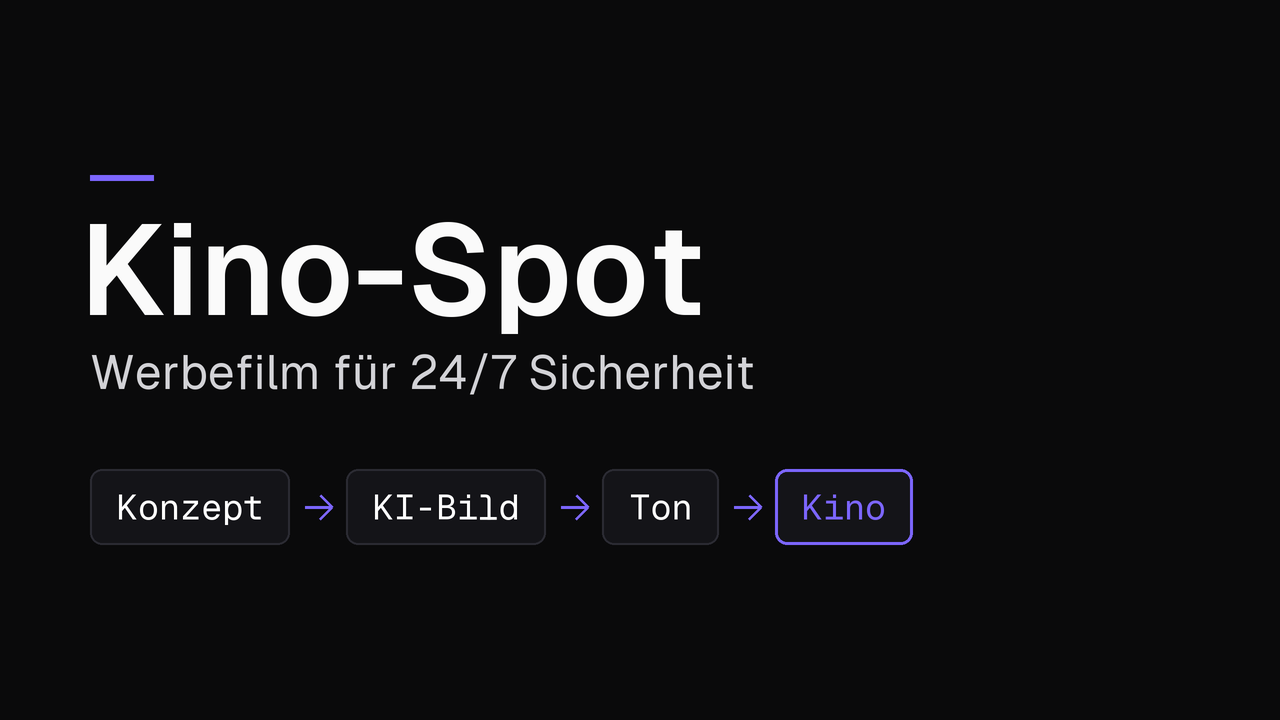
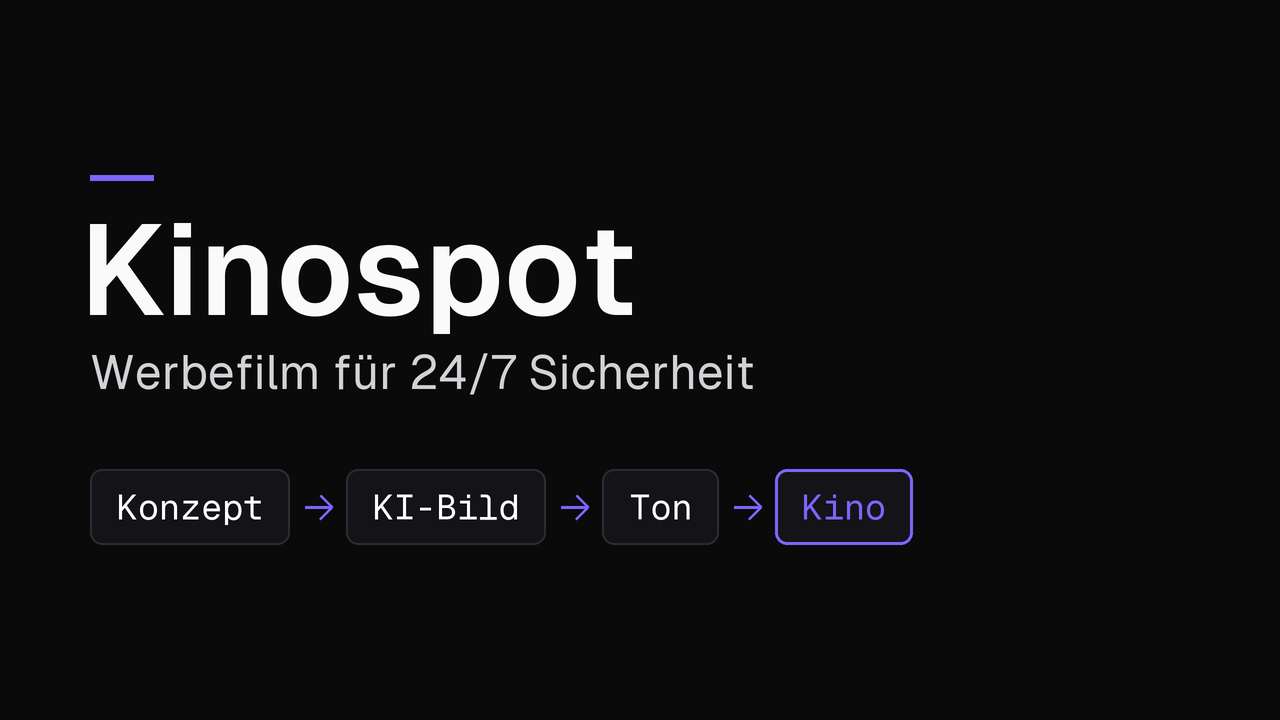
Wording Startseite, Arbeitsproben und /vvl, Navigation ohne VVL-Tool, Kinospot-Vorschaubild

Changed region(s): [[0.2812, 0.3056, 0.5625, 0.4583]]

diff --git a/arbeitsproben.html b/arbeitsproben.html
@@ -12,10 +12,10 @@
   <meta name="theme-color" content="#0A0A0B">
 
   <title>Arbeitsproben | Steffen Petschaelis</title>
-  <meta name="description" content="Vier Projekte mit Status und Beleg: VVL-Automatik im Echtbetrieb, Tresen als Testsystem, Recherche-Team mit KI-Agenten, Kinospot für 24/7 Sicherheit.">
+  <meta name="description" content="Vier Projekte von Steffen Petschaelis: VVL-Automatik im Echtbetrieb, das Kassensystem Tresen in Entwicklung, ein Recherche-Team aus KI-Agenten und ein Kinospot.">
 
   <meta property="og:title" content="Arbeitsproben | Steffen Petschaelis">
-  <meta property="og:description" content="Vier Projekte mit Status und Beleg: VVL-Automatik im Echtbetrieb, Tresen als Testsystem, Recherche-Team mit KI-Agenten, Kinospot für 24/7 Sicherheit.">
+  <meta property="og:description" content="Vier Projekte von Steffen Petschaelis: VVL-Automatik im Echtbetrieb, das Kassensystem Tresen in Entwicklung, ein Recherche-Team aus KI-Agenten und ein Kinospot.">
   <meta property="og:type" content="website">
   <meta property="og:url" content="https://petsch-digital.com/arbeitsproben">
   <meta property="og:image" content="https://petsch-digital.com/og-image.png">
@@ -24,7 +24,7 @@
 
   <meta name="twitter:card" content="summary_large_image">
   <meta name="twitter:title" content="Arbeitsproben | Steffen Petschaelis">
-  <meta name="twitter:description" content="Vier Projekte mit Status und Beleg: VVL-Automatik im Echtbetrieb, Tresen als Testsystem, Recherche-Team mit KI-Agenten, Kinospot für 24/7 Sicherheit.">
+  <meta name="twitter:description" content="Vier Projekte von Steffen Petschaelis: VVL-Automatik im Echtbetrieb, das Kassensystem Tresen in Entwicklung, ein Recherche-Team aus KI-Agenten und ein Kinospot.">
   <meta name="twitter:image" content="https://petsch-digital.com/og-image.png">
 
   <link rel="canonical" href="https://petsch-digital.com/arbeitsproben">
@@ -129,7 +129,6 @@
         <a href="/#profil">Profil</a>
         <a href="/#werdegang">Werdegang</a>
         <a href="/arbeitsproben" aria-current="page">Arbeitsproben</a>
-        <a href="/vvl">VVL-Tool</a>
         <a href="/#kontakt">Kontakt</a>
       </nav>
     </div>
@@ -141,8 +140,8 @@
       <div class="container-wide">
         <div class="hero__inner">
           <span class="eyebrow">Arbeitsproben</span>
-          <h1>Was ich gebaut habe</h1>
-          <p class="lead">Vier Projekte, jeweils mit Status und Beleg. Was im Einsatz läuft, steht als Echtbetrieb da, was ein Testsystem ist, als Testsystem.</p>
+          <h1>Vier Projekte im Detail</h1>
+          <p class="lead">Jedes Projekt mit seinem aktuellen Stand, der eingesetzten Technik und einem Video oder einer Live-Demo.</p>
           <p class="ap-stand">Stand der Angaben: 11. Oktober 2026</p>
         </div>
       </div>
@@ -157,16 +156,16 @@
             <div>
               <span class="eyebrow">Im Echtbetrieb</span>
               <h2>VVL-Automatik für Mobilfunk-Fachhändler</h2>
-              <p>Erkennt, bei welchen Kunden eines Fachhändlers die Vertragsverlängerung ansteht, und schlägt die Erinnerungs-SMS vor. Jede SMS gibt der Händler einzeln frei, es gibt keinen Massenversand.</p>
+              <p>Im Ladenalltag bleiben fällige Vertragsverlängerungen oft liegen. Die Software liest die Provisionsabrechnung aus, erkennt, bei welchen Kunden die Verlängerung ansteht, und schlägt rechtzeitig eine Erinnerungs-SMS vor. Der Händler gibt jede SMS einzeln frei.</p>
               <ul class="ap-facts">
-                <li><strong>Status:</strong> Läuft seit Juli 2026 bei zwei Fachhändlern, je Händler eine eigene Instanz.</li>
-                <li><strong>Stack:</strong> Python, Flask, SQLite; eigener Server je Händler (Hetzner).</li>
-                <li><strong>Betrieb:</strong> Überwachung mit Alarm.</li>
-                <li><strong>Beleg:</strong> Die Demo läuft mit Beispieldaten und verschickt keine SMS. Zugang: demo2026.</li>
+                <li><strong>Stand:</strong> Seit Juli 2026 bei zwei Fachhändlern im Einsatz.</li>
+                <li><strong>Technik:</strong> Python, Flask, SQLite; je Händler ein eigener Server (Hetzner).</li>
+                <li><strong>Betrieb:</strong> Zentrale Überwachung aller Installationen mit Alarm bei Ausfall.</li>
+                <li><strong>Demo:</strong> Öffentlich, mit Beispieldaten und ohne SMS-Versand. Kennwort: demo2026.</li>
               </ul>
               <div class="cta-row">
                 <a class="btn" href="https://demo.petsch-digital.com/login" target="_blank" rel="noopener">Demo öffnen &rarr;</a>
-                <a class="btn btn--secondary" href="/vvl">Mehr zur Lösung &rarr;</a>
+                <a class="btn btn--secondary" href="/vvl">Zur Produktseite &rarr;</a>
               </div>
             </div>
             <a class="ap-media" href="https://demo.petsch-digital.com/login" target="_blank" rel="noopener noreferrer">
@@ -178,14 +177,14 @@
           <!-- Tresen -->
           <article class="card ap-card" id="tresen">
             <div>
-              <span class="eyebrow">Testsystem, in Entwicklung</span>
+              <span class="eyebrow">In Entwicklung</span>
               <h2>Tresen: Software für Handyläden</h2>
-              <p>Kassen- und Warenwirtschaftssystem für den Mobilfunk-Fachhandel, vom Lieferschein über Bestand und Kasse bis zum Kunden und seinem Vertrag.</p>
+              <p>Kassen- und Warenwirtschaft für den Mobilfunk-Fachhandel. Tresen bildet den Weg eines Geräts ab, vom Lieferschein über Bestand und Kasse bis zum Kunden und seinem Vertrag.</p>
               <ul class="ap-facts">
-                <li><strong>Status:</strong> Läuft als Testsystem mit Testdaten, noch kein Release. Die fiskalische Signatur ist im Video simuliert.</li>
-                <li><strong>Stack:</strong> Django, PostgreSQL mit Mandantentrennung auf Datenbankebene (Row Level Security), HTMX.</li>
+                <li><strong>Stand:</strong> Testsystem mit Testdaten, noch ohne Release und ohne Kunden. Die fiskalische Signatur ist im Video simuliert.</li>
+                <li><strong>Technik:</strong> Django, PostgreSQL mit Mandantentrennung auf Datenbankebene (Row Level Security), HTMX.</li>
                 <li><strong>Arbeitsweise:</strong> KI-Agenten schreiben den Code, die Systementscheidungen treffe ich, automatische Tests sichern das Ergebnis ab.</li>
-                <li><strong>Beleg:</strong> Video eines Ladentags im Testsystem.</li>
+                <li><strong>Video:</strong> Ein Ladentag im Testsystem, ein Gerät vom Lieferschein bis zum Kunden.</li>
               </ul>
             </div>
             <a class="ap-media" href="https://youtu.be/O59-yfbZAoQ" target="_blank" rel="noopener noreferrer">
@@ -197,13 +196,13 @@
           <!-- Recherche-Team -->
           <article class="card ap-card" id="recherche-team">
             <div>
-              <span class="eyebrow">Eigenprojekt</span>
+              <span class="eyebrow">Prototyp</span>
               <h2>Recherche-Team: KI-Agenten in n8n mit eingebautem Prüfer</h2>
-              <p>Ein Planer zerlegt die Frage, Worker recherchieren, eine Synthese fasst zusammen und ein Kritiker prüft das Ergebnis. Es gibt höchstens zwei Runden.</p>
+              <p>Ein Planer zerlegt die Frage, Worker recherchieren, eine Synthese fasst zusammen, und ein Kritiker prüft das Ergebnis auf Lücken. Mit seinen Befunden läuft höchstens eine zweite Runde.</p>
               <ul class="ap-facts">
-                <li><strong>Gezeigter Lauf:</strong> Frage zum Stand der KI im deutschen Mittelstand 2026, gut fünf Minuten, 0,43&nbsp;$ Kosten.</li>
-                <li><strong>Stack:</strong> n8n, Claude (Haiku und Sonnet) über die Anthropic API, Brave Search und Jina Reader.</li>
-                <li><strong>Kritiker:</strong> Runde 1 meldete 7 Befunde, davon 4 schwer. Runde 2 meldete 4, davon 2 schwer.</li>
+                <li><strong>Stand:</strong> Lokal lauffähig, nicht im Kundeneinsatz.</li>
+                <li><strong>Technik:</strong> n8n, Claude (Haiku und Sonnet) über die Anthropic API, Brave Search, Jina Reader.</li>
+                <li><strong>Gezeigter Lauf:</strong> Frage zum Stand der KI im deutschen Mittelstand 2026, gut fünf Minuten, 0,43 US-Dollar API-Kosten. Der Kritiker meldete in Runde 1 sieben Befunde, davon vier schwer, in Runde 2 vier, davon zwei schwer.</li>
                 <li><strong>Grenze:</strong> Der Kritiker prüft, ob Belege vorhanden sind, nicht, ob sie stimmen. Den letzten Blick hat ein Mensch.</li>
               </ul>
             </div>
@@ -216,13 +215,13 @@
           <!-- Kinospot -->
           <article class="card ap-card" id="kinospot">
             <div>
-              <span class="eyebrow">Videoproduktion</span>
+              <span class="eyebrow">Kundenauftrag</span>
               <h2>Kinospot für 24/7 Sicherheit</h2>
-              <p>Werbespot, 25 Sekunden, 4K, Cinemascope 2,39:1, 5.1 Surround. Konzept „Der unsichtbare Schutzschild“: vom Familienabend in die Sicherheitsleitstelle.</p>
+              <p>Kinowerbung für einen Sicherheitsdienstleister aus Bielefeld. In 25 Sekunden führt der Spot vom Familienabend in die Sicherheitsleitstelle, Konzept „Der unsichtbare Schutzschild“.</p>
               <ul class="ap-facts">
-                <li><strong>Entstehung:</strong> Bilder KI-generiert (Veo 3.1, Flow, Nano Banana Pro), Musik, Sprecher und Soundeffekte mit ElevenLabs, Postproduktion und DCP-Export in DaVinci Resolve Studio 20.</li>
-                <li><strong>Kunde:</strong> 24/7 Sicherheit, Bielefeld.</li>
-                <li><strong>Status:</strong> Abgeschlossen 2026, veröffentlicht mit Freigabe des Kunden.</li>
+                <li><strong>Stand:</strong> 2026 abgeschlossen und als DCP nach Kino-Spezifikation ausgeliefert. Veröffentlicht mit Freigabe des Kunden.</li>
+                <li><strong>Technik:</strong> Bilder KI-generiert (Veo 3.1, Flow, Nano Banana Pro); Musik, Sprecher und Soundeffekte mit ElevenLabs; Postproduktion, 5.1-Mix und DCP-Export in DaVinci Resolve Studio 20.</li>
+                <li><strong>Format:</strong> 25 Sekunden, 4K, Cinemascope 2,39:1, 5.1 Surround.</li>
               </ul>
             </div>
             <a class="ap-media" href="https://youtu.be/dy25G9FR-k0" target="_blank" rel="noopener noreferrer">
@@ -237,7 +236,7 @@
         <div class="cta-block ap-cta">
           <span class="eyebrow">Kontakt</span>
           <h2>Fragen zu einem Projekt?</h2>
-          <p>Zu jedem Projekt gebe ich gern mehr Auskunft.</p>
+          <p>Zu jedem Projekt erzähle ich gern mehr, auch zu den Entscheidungen dahinter.</p>
           <div class="cta-row">
             <a class="btn" href="https://calendly.com/steffenpetsch/erstgesprach" target="_blank" rel="noopener">Gespräch vereinbaren &rarr;</a>
             <a class="btn btn--secondary" href="mailto:steffen@petsch-digital.com">E-Mail schreiben</a>

diff --git a/index.html b/index.html
@@ -213,7 +213,6 @@
         <a href="#profil">Profil</a>
         <a href="#werdegang">Werdegang</a>
         <a href="/arbeitsproben">Arbeitsproben</a>
-        <a href="/vvl">VVL-Tool</a>
         <a href="#kontakt">Kontakt</a>
       </nav>
     </div>
@@ -228,7 +227,7 @@
             <span class="eyebrow">Prozesse · Automatisierung · KI</span>
             <h1>Steffen Petschaelis</h1>
             <p class="hero__claim">Ich verstehe Abläufe aus der Praxis, mache sie einfacher und baue die Systeme dafür selbst.</p>
-            <p class="lead">18 Jahre in Vertrieb, Beratung und Shopleitung, seit 2020 selbstständig. Heute Automatisierung und KI-Lösungen mit Python, Django, n8n, PostgreSQL und LLMs. Offen für eine Rolle als Solutions Engineer, KI-Enabler oder Prozessmanager, remote oder hybrid in Deutschland. Ebenso für Zusammenarbeit über Petsch Digital.</p>
+            <p class="lead">Heute arbeite ich an Automatisierung und KI-Lösungen, mit Python, Django, n8n, PostgreSQL und LLMs. Ich suche eine Rolle als Solutions Engineer, KI-Enabler oder Prozessmanager, remote oder hybrid in Deutschland, und bin ebenso offen für eine Zusammenarbeit über Petsch Digital.</p>
             <ul class="hero__facts">
               <li><strong>18 Jahre</strong><span>Vertrieb und Shopleitung</span></li>
               <li><strong>Seit 2020</strong><span>selbstständig</span></li>
@@ -250,23 +249,23 @@
         <div class="section__head section__head--center">
           <span class="eyebrow">Profil</span>
           <h2>Was ich mitbringe</h2>
-          <p class="section__lead">Ich komme aus der Praxis. Deshalb setze ich beim Ablauf an, die Technik folgt daraus.</p>
+          <p class="section__lead">Ich setze beim Ablauf an. Die Technik folgt daraus.</p>
         </div>
 
         <div class="muster-grid">
           <article class="card muster-card">
             <h3 class="muster-card__title">Abläufe verstehen</h3>
-            <p class="muster-card__desc">18 Jahre Vertrieb, Beratung und Kassenprozesse unter drei Partnermodellen: Franchise, Partneragentur und Fachhändler. Ich weiß, wie sich derselbe Ablauf ändert, wenn sich die Organisation ändert.</p>
+            <p class="muster-card__desc">Vertrieb, Beratung und Kassenprozesse in drei Partnermodellen: Franchise, Partneragentur und Fachhandel. Dabei habe ich gelernt, wie stark ein Ablauf von der Organisation abhängt, in der er läuft.</p>
           </article>
 
           <article class="card muster-card">
             <h3 class="muster-card__title">Einfacher machen</h3>
-            <p class="muster-card__desc">Erst den Ablauf klären, dann automatisieren. Beispiel Vertragsverlängerung im Mobilfunk: Das System erkennt fällige Verträge selbst, der Händler gibt nur noch die SMS frei.</p>
+            <p class="muster-card__desc">Erst den Ablauf klären, dann automatisieren. Ein Beispiel ist die Vertragsverlängerung im Mobilfunk: Das System erkennt fällige Verträge selbst, der Händler gibt nur noch die SMS frei.</p>
           </article>
 
           <article class="card muster-card">
             <h3 class="muster-card__title">Selbst bauen</h3>
-            <p class="muster-card__desc">Ein Kassensystem mit Mandantentrennung, derzeit in Entwicklung, und ein Recherche-Agent, der seine Ergebnisse selbst prüft. Beim Kassensystem schreiben KI-Agenten den Code, die Systementscheidungen treffe ich, automatische Tests sichern das Ergebnis ab.</p>
+            <p class="muster-card__desc">Derzeit entsteht ein Kassensystem mit Mandantentrennung. Als Prototyp läuft ein Recherche-Team in n8n, in dem ein Kritiker die Ergebnisse auf Lücken prüft. Beim Kassensystem schreiben KI-Agenten den Code, die Systementscheidungen treffe ich, automatische Tests sichern das Ergebnis ab.</p>
           </article>
         </div>
       </div>
@@ -277,8 +276,8 @@
       <div class="container-wide">
         <div class="section__head section__head--center">
           <span class="eyebrow">Arbeitsproben</span>
-          <h2>Vier Projekte mit Beleg</h2>
-          <p class="section__lead">Jedes mit Status, Stack und Video oder Live-Demo.</p>
+          <h2>Ausgewählte Projekte</h2>
+          <p class="section__lead">Vom Echtbetrieb bis zum Prototyp, jeweils mit Video oder Live-Demo.</p>
         </div>
 
         <div class="ap-tiles">
@@ -291,21 +290,21 @@
 
           <a class="card ap-tile" href="/arbeitsproben#tresen">
             <span class="ap-tile__media"><img src="/assets/img/arbeitsprobe-tresen.png" alt="" width="1280" height="720" loading="lazy"></span>
-            <span class="eyebrow">Testsystem, in Entwicklung</span>
+            <span class="eyebrow">In Entwicklung</span>
             <h3 class="ap-tile__title">Tresen</h3>
             <span class="ap-tile__sub">Software für Handyläden</span>
           </a>
 
           <a class="card ap-tile" href="/arbeitsproben#recherche-team">
             <span class="ap-tile__media"><img src="/assets/img/arbeitsprobe-recherche-team.png" alt="" width="1280" height="720" loading="lazy"></span>
-            <span class="eyebrow">Eigenprojekt</span>
+            <span class="eyebrow">Prototyp</span>
             <h3 class="ap-tile__title">Recherche-Team</h3>
             <span class="ap-tile__sub">KI-Agenten in n8n mit eingebautem Prüfer</span>
           </a>
 
           <a class="card ap-tile" href="/arbeitsproben#kinospot">
             <span class="ap-tile__media"><img src="/assets/img/arbeitsprobe-kinospot.png" alt="" width="1280" height="720" loading="lazy"></span>
-            <span class="eyebrow">Videoproduktion</span>
+            <span class="eyebrow">Kundenauftrag</span>
             <h3 class="ap-tile__title">Kinospot für 24/7 Sicherheit</h3>
             <span class="ap-tile__sub">Werbefilm, 25 Sekunden, 4K</span>
           </a>
@@ -335,12 +334,12 @@
           <div class="ablauf-card">
             <div class="ablauf-number ablauf-number--year">2001–2019</div>
             <h3 class="ablauf-title">Mobilfunk-Fachhandel</h3>
-            <p class="ablauf-body">Vertrieb, Beratung und Kassenprozesse, durchgehend im selben Unternehmen. Erst Verkaufsberater, nach vier Jahren Leitung des Vodafone Shops in Bergen auf Rügen.</p>
+            <p class="ablauf-body">Vertrieb, Beratung und Kassenprozesse, durchgehend im selben Unternehmen: vier Jahre Verkaufsberater, danach Shopleiter des Vodafone Shops in Bergen auf Rügen.</p>
           </div>
           <div class="ablauf-card">
             <div class="ablauf-number ablauf-number--year">Seit 2020</div>
             <h3 class="ablauf-title">Selbstständig</h3>
-            <p class="ablauf-body">Erst Affiliate-Marketing und SEO, seit 2022 als Petsch Digital LLC, seit 2025 Automatisierung und KI-Lösungen.</p>
+            <p class="ablauf-body">Zunächst eigene Websites, SEO und Affiliate-Marketing, ab 2022 als Petsch Digital LLC. Seit 2025 Schwerpunkt Automatisierung und KI.</p>
           </div>
         </div>
       </div>
@@ -352,7 +351,7 @@
         <div class="cta-block">
           <span class="eyebrow">Kontakt</span>
           <h2>Offen für neue Aufgaben</h2>
-          <p>Ich suche eine Rolle als Solutions Engineer, KI-Enabler oder Prozessmanager, remote oder hybrid in Deutschland. Ebenso offen bin ich für Zusammenarbeit über Petsch Digital, im Projekt oder als Partner.</p>
+          <p>Ob Anstellung, Projekt oder Partnerschaft: Ein kurzes Gespräch zeigt am schnellsten, ob es passt.</p>
           <div class="cta-row">
             <a class="btn" href="https://calendly.com/steffenpetsch/erstgesprach" target="_blank" rel="noopener">Gespräch vereinbaren &rarr;</a>
             <a class="btn btn--secondary" href="mailto:steffen@petsch-digital.com">E-Mail schreiben</a>

diff --git a/vvl.html b/vvl.html
@@ -133,7 +133,7 @@
       <div class="container-wide">
         <div class="hero__inner">
           <span class="eyebrow">Software für Mobilfunk-Fachhändler</span>
-          <h1>Keine Vertragsverlängerung deiner Mobilfunkkunden mehr verpassen</h1>
+          <h1>Fällige Vertrags&shy;verlängerungen rechtzeitig auf dem Schirm</h1>
           <p class="lead">Das System erkennt automatisch, bei welchem Kunden die Vertragsverlängerung (VVL) ansteht, und erinnert dich rechtzeitig. Für jeden fälligen Kunden bekommst du eine fertige Erinnerungs-SMS vorgeschlagen, die du nur noch freigibst. Kein neues Kassensystem, keine Kundenliste, die du pflegen musst. Läuft im Echtbetrieb bei zwei Vodafone-Fachhändlern.</p>
           <div class="cta-row">
             <a class="btn" href="https://demo.petsch-digital.com/login" target="_blank" rel="noopener">Demo ansehen &rarr;</a>
@@ -148,7 +148,7 @@
       <div class="container">
         <span class="eyebrow">Das Problem</span>
         <h2>Im Tagesgeschäft geht die Vertragsverlängerung unter</h2>
-        <p style="margin-top: var(--space-6); font-size: 1.0625rem;">Eine Vertragsverlängerung anzustoßen heißt: jeden Vertrag im Blick behalten, den richtigen Moment erwischen, den Kunden rechtzeitig ansprechen. Im Tagesgeschäft geht das unter. Die Alternative ist, jemanden genau dafür abzustellen, das kostet Zeit und Geld, und auch dabei wird mal etwas übersehen oder vergessen. Das System übernimmt diesen Teil, ohne Pause und ohne zu vergessen. So geht dir keine Vertragsverlängerung mehr verloren.</p>
+        <p style="margin-top: var(--space-6); font-size: 1.0625rem;">Eine Vertragsverlängerung anzustoßen heißt: jeden Vertrag im Blick behalten, den richtigen Moment erwischen, den Kunden rechtzeitig ansprechen. Im Tagesgeschäft geht das unter. Die Alternative ist, jemanden genau dafür abzustellen, das kostet Zeit und Geld, und auch dabei wird mal etwas übersehen oder vergessen. Das System übernimmt das Erkennen und Erinnern, über jede Nachricht entscheidest du.</p>
       </div>
     </section>
 
@@ -224,7 +224,7 @@
       <div class="container">
         <div class="section__head">
           <span class="eyebrow">Aus der Praxis</span>
-          <h2>Läuft im Echtbetrieb bei zwei Vodafone-Fachhändlern</h2>
+          <h2>Was ein Händler dazu sagt</h2>
         </div>
 
         <article class="card zitat">
@@ -256,7 +256,7 @@
           </article>
           <article class="card card--compact">
             <h3 class="ablauf-title">Server in Deutschland</h3>
-            <p class="ablauf-body">Das System läuft auf einem eigenen Server in einem deutschen Rechenzentrum. Deine Kundendaten bleiben in Deutschland, der Zugang ist über VPN und Zwei-Faktor abgesichert.</p>
+            <p class="ablauf-body">Das System läuft für jeden Händler auf einem eigenen Server in einem deutschen Rechenzentrum, getrennt von anderen Händlern. Der Zugang ist über VPN und Zwei-Faktor abgesichert.</p>
           </article>
         </div>
 
@@ -298,11 +298,11 @@
           </details>
           <details>
             <summary>Wie lange dauert die Einrichtung?</summary>
-            <p>Bei einer Datenquelle, die schon unterstützt wird, ist das System in der Regel innerhalb von drei Tagen einsatzbereit. Muss ein neues Format erst angebunden werden, planen wir etwas mehr Zeit ein. Den Rahmen für deinen Fall sage ich dir nach dem Erstgespräch, bevor etwas verbindlich wird.</p>
+            <p>Das hängt von deiner Datenquelle ab. Muss ein neues Format erst angebunden werden, dauert es länger als bei einer Quelle, die schon unterstützt wird. Den Rahmen für deinen Fall nenne ich dir nach einem ersten Gespräch, bevor etwas verbindlich wird.</p>
           </details>
           <details>
             <summary>Was passiert mit meinen Kundendaten?</summary>
-            <p>Sie liegen auf einem eigenen Server in einem deutschen Rechenzentrum, nicht bei einem Cloud-Dienst im Ausland. Der Zugang ist über VPN und Zwei-Faktor abgesichert. Details und einen Auftragsverarbeitungs-Vertrag klären wir vor dem Start.</p>
+            <p>Sie liegen auf einem eigenen Server in einem deutschen Rechenzentrum, getrennt von den Daten anderer Händler. Der Zugang ist über VPN und Zwei-Faktor abgesichert. Die Einzelheiten regelt ein Auftragsverarbeitungs-Vertrag, den wir vor dem Start abschließen.</p>
           </details>
         </div>
       </div>
@@ -314,7 +314,7 @@
         <div class="cta-block">
           <span class="eyebrow">Ausprobieren</span>
           <h2>Schau es dir an</h2>
-          <p>Die Demo läuft mit Beispieldaten, es wird keine SMS verschickt. Zugang: demo2026. Wenn du danach Fragen hast oder wissen willst, ob es zu deinem Shop passt, schreib mir.</p>
+          <p>Die Demo läuft mit Beispieldaten, es wird keine SMS verschickt. Kennwort: demo2026. Wenn du danach Fragen hast oder wissen willst, ob es zu deinem Shop passt, schreib mir.</p>
           <div class="cta-row" style="justify-content: center;">
             <a class="btn" href="https://demo.petsch-digital.com/login" target="_blank" rel="noopener">Demo öffnen &rarr;</a>
             <a class="btn btn--secondary" href="mailto:steffen@petsch-digital.com">E-Mail schreiben</a>
@@ -366,7 +366,7 @@
         "name": "Funktioniert das auch für O2- oder Telekom-Shops?",
         "acceptedAnswer": {
           "@type": "Answer",
-          "text": "Aktuell ist das System auf die Vodafone-Provisionsabrechnung ausgelegt, dort läuft es im Echtbetrieb. Andere Quellen und Formate lassen sich anbinden, das ist dann eine Anpassung an dein Format. Ob und wie das in deinem Fall geht, klären wir im Gespräch."
+          "text": "Aktuell ist das System auf die Vodafone-Provisionsabrechnung ausgelegt, dort läuft es im Echtbetrieb. Andere Quellen und Formate lassen sich anbinden, das ist dann eine Anpassung an dein Format. Ob und wie das in deinem Fall geht, klären wir im Gespräch, bevor du dich festlegst."
         }
       },
       {
@@ -390,7 +390,7 @@
         "name": "Wie lange dauert die Einrichtung?",
         "acceptedAnswer": {
           "@type": "Answer",
-          "text": "Bei einer Datenquelle, die schon unterstützt wird, ist das System in der Regel innerhalb von drei Tagen einsatzbereit. Muss ein neues Format erst angebunden werden, planen wir etwas mehr Zeit ein. Den Rahmen für deinen Fall sage ich dir nach dem Erstgespräch."
+          "text": "Das hängt von deiner Datenquelle ab. Muss ein neues Format erst angebunden werden, dauert es länger als bei einer Quelle, die schon unterstützt wird. Den Rahmen für deinen Fall nenne ich dir nach einem ersten Gespräch, bevor etwas verbindlich wird."
         }
       },
       {
@@ -398,7 +398,7 @@
         "name": "Was passiert mit meinen Kundendaten?",
         "acceptedAnswer": {
           "@type": "Answer",
-          "text": "Sie liegen auf einem eigenen Server in einem deutschen Rechenzentrum, nicht bei einem Cloud-Dienst im Ausland. Der Zugang ist über VPN und Zwei-Faktor abgesichert. Details und einen Auftragsverarbeitungs-Vertrag klären wir vor dem Start."
+          "text": "Sie liegen auf einem eigenen Server in einem deutschen Rechenzentrum, getrennt von den Daten anderer Händler. Der Zugang ist über VPN und Zwei-Faktor abgesichert. Die Einzelheiten regelt ein Auftragsverarbeitungs-Vertrag, den wir vor dem Start abschließen."
         }
       }
     ]

diff --git a/datenschutz.html b/datenschutz.html
@@ -35,7 +35,6 @@
         <a href="/#profil">Profil</a>
         <a href="/#werdegang">Werdegang</a>
         <a href="/arbeitsproben">Arbeitsproben</a>
-        <a href="/vvl">VVL-Tool</a>
         <a href="/#kontakt">Kontakt</a>
       </nav>
     </div>

diff --git a/impressum.html b/impressum.html
@@ -35,7 +35,6 @@
         <a href="/#profil">Profil</a>
         <a href="/#werdegang">Werdegang</a>
         <a href="/arbeitsproben">Arbeitsproben</a>
-        <a href="/vvl">VVL-Tool</a>
         <a href="/#kontakt">Kontakt</a>
       </nav>
     </div>

diff --git a/assets/css/style.css b/assets/css/style.css
@@ -372,11 +372,11 @@ small {
 
 @media (max-width: 479px) {
   .site-nav {
-    gap: var(--space-2);
+    gap: var(--space-3);
   }
 
   .site-nav a {
-    font-size: 0.75rem;
+    font-size: 0.875rem;
   }
 }
 
